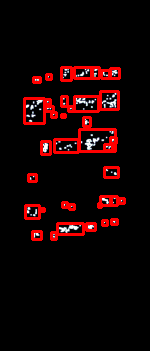
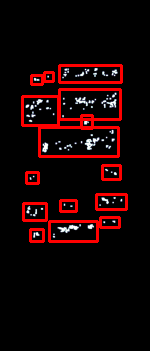
tratando de detectar bandas con el area del blob detectado

Changed region(s): [[0.1333, 0.1709, 0.8267, 0.5128], [0.1333, 0.5413, 0.8533, 0.7123], [0.16, 0.4843, 0.2667, 0.5413]]

diff --git a/figuras.py b/figuras.py
@@ -10,7 +10,7 @@ def convertir_imagenes_escala_grises(imagen):
 
 def dilatar_mascara_get_canny(imagen):
     canny = cv2.Canny(imagen, 10, 150)
-    return cv2.dilate(canny, None, iterations=1)
+    return cv2.dilate(canny, None, iterations=3)
 
 def guardar_imagen(nombre_imagen, imagen):
     cv2.imwrite('output/' + nombre_imagen, imagen)
@@ -36,7 +36,23 @@ for imagen in os.listdir('input'):
     for cnt in cnts:
         x,y,w,h = cv2.boundingRect(cnt)
         if w > img.shape[1] * 0.25:
-            img = cv2.rectangle(img,(x,y),(x+w,y+h),(0,255,0),2)
+            # img = cv2.rectangle(img,(x,y),(x+w,y+h),(0,255,0),2)
+            temp = img[y:y+h, x:x+w]
+            temp = convertir_imagenes_escala_grises(temp)
+            temp = cv2.threshold(temp, 128, 255, cv2.THRESH_BINARY | cv2.THRESH_OTSU)[1]
+            print(np.sum(temp != 0))
+            print(temp.shape[0] * temp.shape[1])
+            """ cv2.imshow("temp", temp)
+            cv2.waitKey(0)
+            cv2.destroyAllWindows() """
+            if int((np.sum(temp != 0) / (temp.shape[0] * temp.shape[1]) * 100)) > 15:
+                img = cv2.rectangle(img,(x,y),(x+w,y+h),(0,255,0),2)
+            else:
+                img = cv2.rectangle(img,(x,y),(x+w,y+h),(0,0,255),2)
+            """ print(temp.shape[2])
+            print("Total Pixeles: " + str(np.sum(temp)))
+            print("Pixeles Blancos: " + str(np.sum(temp != 0)))
+            print("Division: " + str(int((np.sum(temp != 0) / (temp.shape[0] * temp.shape[1]) * 100)))) """
         else:
             img = cv2.rectangle(img,(x,y),(x+w,y+h),(0,0,255),2)
     
